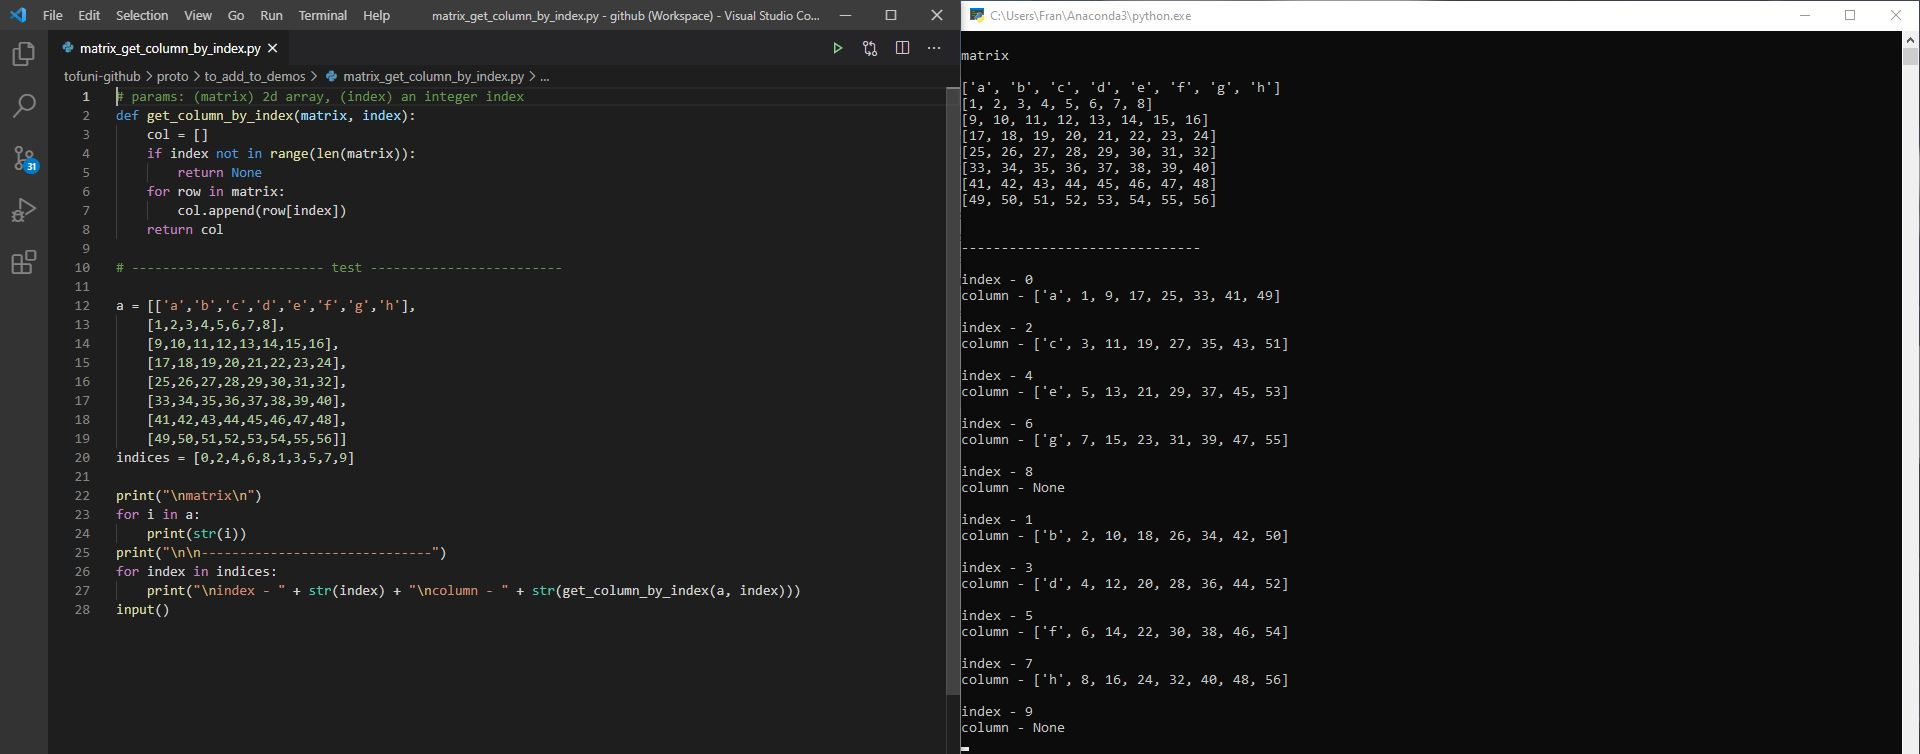
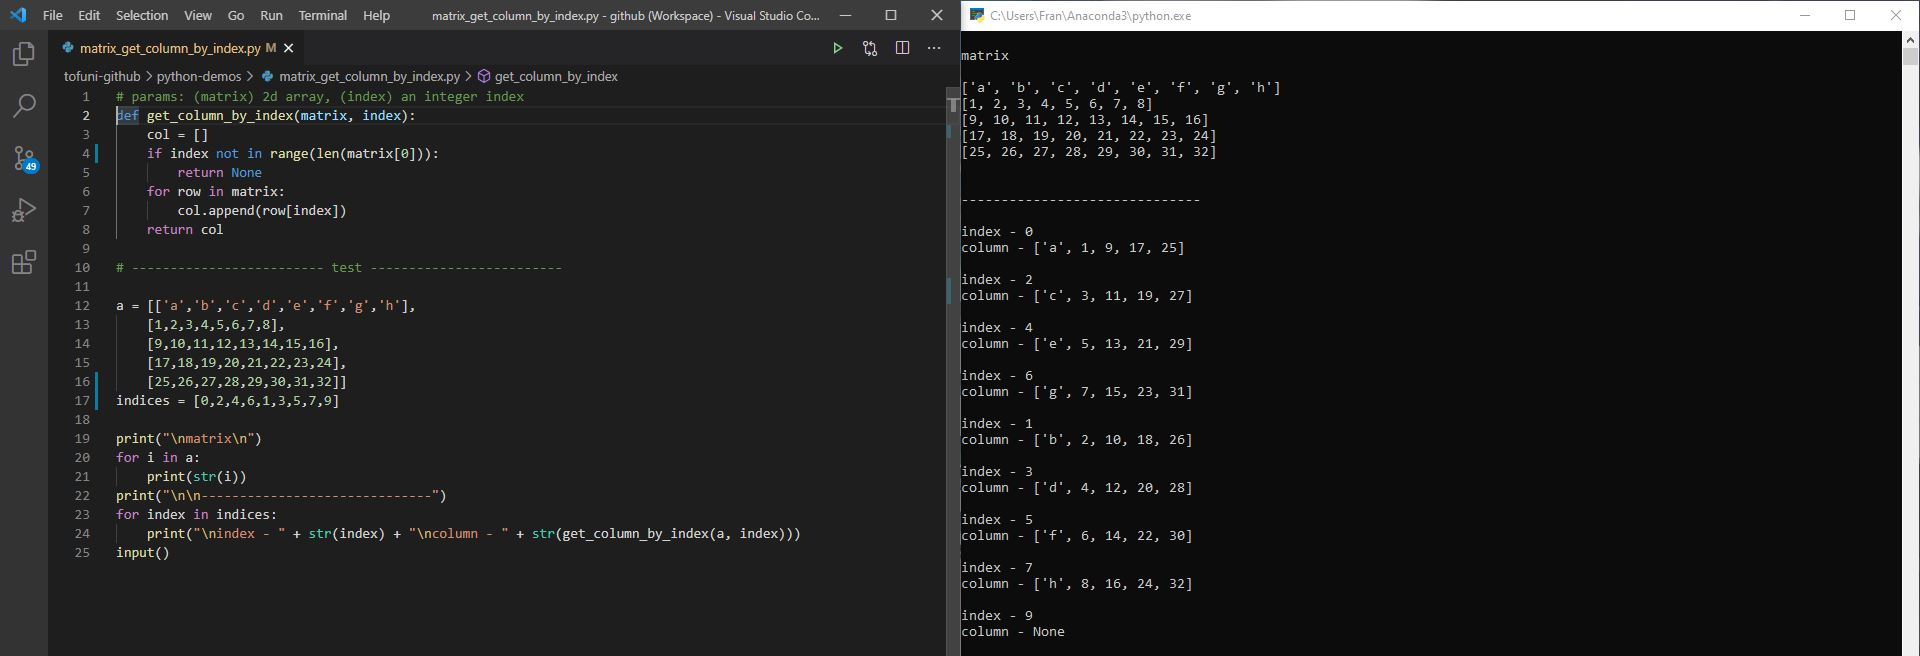
fix index search in matrix_get_column_by_index, update tests

diff --git a/matrix_get_column_by_index.py b/matrix_get_column_by_index.py
@@ -1,7 +1,7 @@
 # params: (matrix) 2d array, (index) an integer index
 def get_column_by_index(matrix, index):
 	col = []
-	if index not in range(len(matrix)):
+	if index not in range(len(matrix[0])):
 		return None
 	for row in matrix:
 		col.append(row[index])
@@ -13,11 +13,8 @@ a = [['a','b','c','d','e','f','g','h'],
 	[1,2,3,4,5,6,7,8],
 	[9,10,11,12,13,14,15,16],
 	[17,18,19,20,21,22,23,24],
-	[25,26,27,28,29,30,31,32],
-	[33,34,35,36,37,38,39,40],
-	[41,42,43,44,45,46,47,48],
-	[49,50,51,52,53,54,55,56]]
-indices = [0,2,4,6,8,1,3,5,7,9]
+	[25,26,27,28,29,30,31,32]]
+indices = [0,2,4,6,1,3,5,7,9]
 
 print("\nmatrix\n")
 for i in a:

diff --git a/matrix_get_column_by_string.py b/matrix_get_column_by_string.py
@@ -14,11 +14,8 @@ a = [['a','b','c','d','e','f','g','h'],
 	[1,2,3,4,5,6,7,8],
 	[9,10,11,12,13,14,15,16],
 	[17,18,19,20,21,22,23,24],
-	[25,26,27,28,29,30,31,32],
-	[33,34,35,36,37,38,39,40],
-	[41,42,43,44,45,46,47,48],
-	[49,50,51,52,53,54,55,56]]
-indices = ['a','d','g','b','e','h','c','f','i']
+	[25,26,27,28,29,30,31,32]]
+indices = ['a','d','g','b','e','h','c','f','i','j']
 
 print("\nmatrix\n")
 for i in a:
